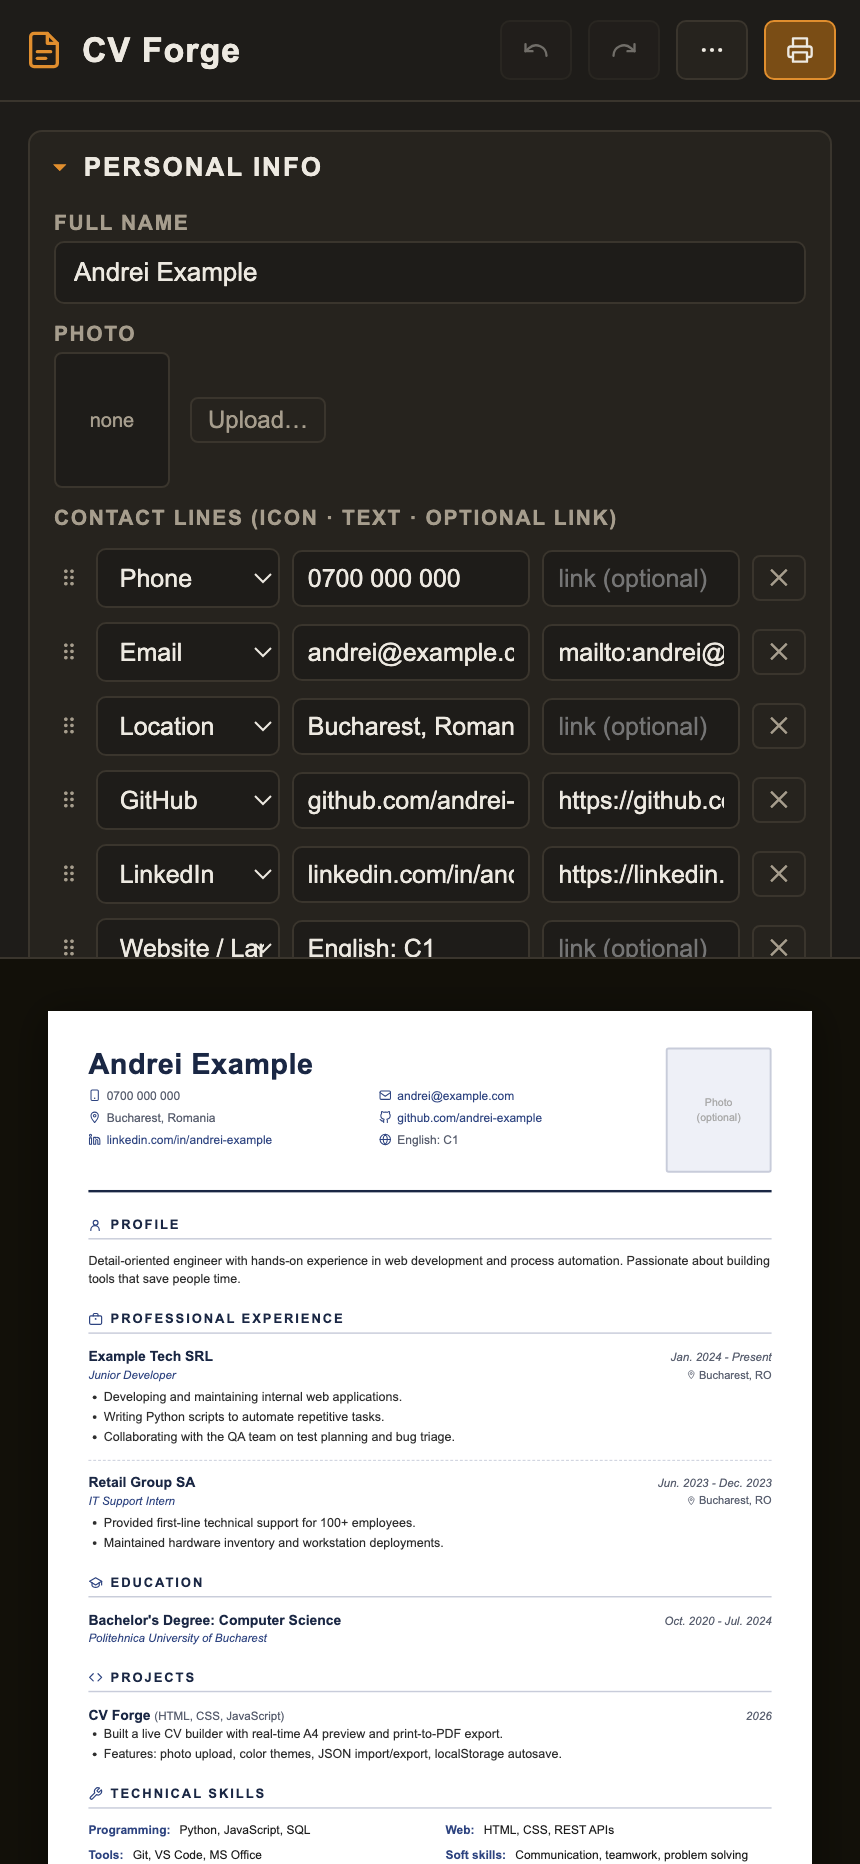
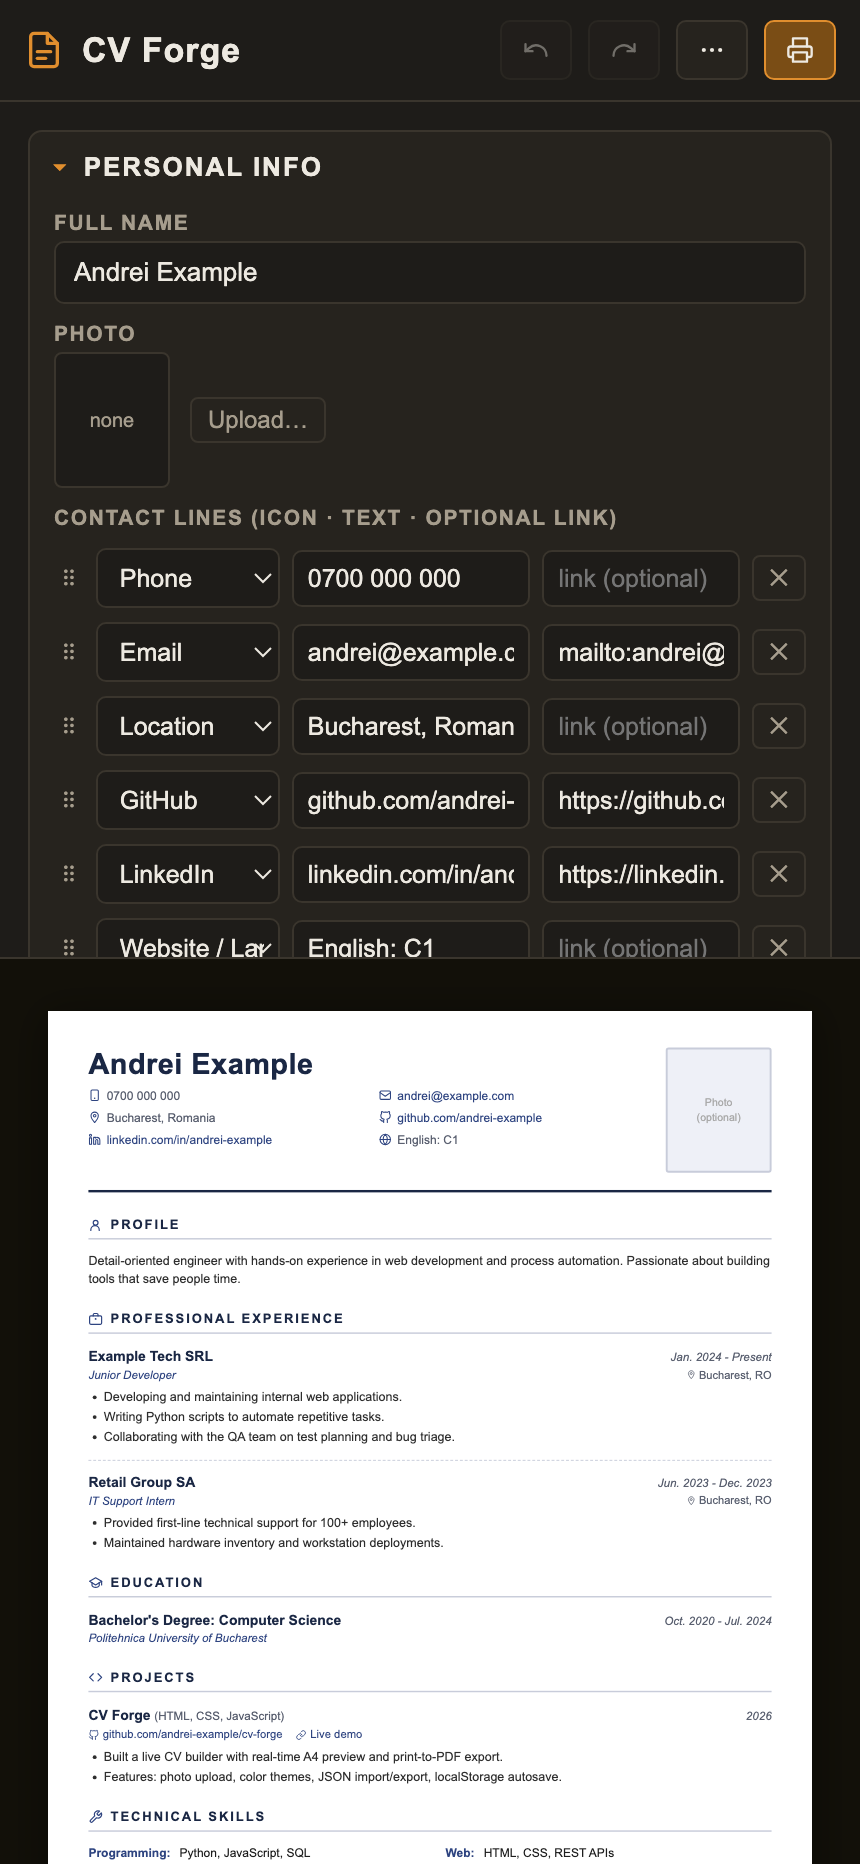
Add repository and demo links to project entries
Projects can now carry links, shown as a small row under the project
title and above its bullets. One link per line, written either as a bare
address or as "Label | link", so a link can read as the address itself
on paper or as a short label when there are several.

GitHub addresses get the GitHub icon and everything else a generic link
icon, both following the existing icon toggle. Links are sanitized like
the rest: bare domains gain https:// and non-web schemes are dropped.
Older JSON exports without the field load unchanged.

Changed region(s): [[0.0907, 0.9024, 0.8767, 1.0]]

diff --git a/app.js b/app.js
@@ -147,6 +147,7 @@ function defaultState() {
         projects: [
             {
                 name: 'CV Forge', tech: 'HTML, CSS, JavaScript', date: '2026',
+                links: 'github.com/andrei-example/cv-forge\nLive demo | cvforge.example.com',
                 bullets: 'Built a live CV builder with real-time A4 preview and print-to-PDF export.\nFeatures: photo upload, color themes, JSON import/export, localStorage autosave.'
             }
         ],
@@ -270,6 +271,26 @@ function setPath(obj, path, value) {
 const bulletList = text =>
     String(text || '').split('\n').map(s => s.trim()).filter(Boolean);
 
+/* one link per line, either "https://..." or "Label | https://..." */
+function linkRow(text) {
+    const links = bulletList(text).map(line => {
+        const bar = line.indexOf('|');
+        const label = bar === -1 ? '' : line.slice(0, bar).trim();
+        const raw = bar === -1 ? line : line.slice(bar + 1).trim();
+        const url = safeLink(raw);
+        if (!url) return null;
+        // without a label, show the bare address: readable on paper too
+        const shown = label || raw.replace(/^https?:\/\//i, '').replace(/\/+$/, '');
+        const icon = /\bgithub\.com/i.test(url) ? ICONS.github : ICONS.link;
+        return { url, shown, icon };
+    }).filter(Boolean);
+
+    return links.length
+        ? `<div class="item-links">${links.map(l =>
+            `<a href="${esc(l.url)}">${state.showIcons ? l.icon : ''}${esc(l.shown)}</a>`).join('')}</div>`
+        : '';
+}
+
 /* ═══════════════════════════════════════════════════════
    PREVIEW RENDERING
    ═══════════════════════════════════════════════════════ */
@@ -379,6 +400,7 @@ function sectionPreview(key) {
                 <span>${esc(x.name)} ${x.tech ? `<span class="tech">(${esc(x.tech)})</span>` : ''}</span>
                 <span class="date">${esc(x.date)}</span>
             </div>
+            ${linkRow(x.links)}
             ${ulOf(x.bullets)}
         </div>`).join(''));
     }
@@ -664,6 +686,8 @@ function editorSection(key, s) {
                     ${field('Year', `projects.${i}.date`, x.date)}
                 </div>
                 ${field('Tech stack', `projects.${i}.tech`, x.tech, 'PHP, SQLite, Stripe API')}
+                ${area('Links - one per line, or "Label | link"', `projects.${i}.links`, x.links,
+                       'github.com/you/project\nLive demo | myproject.com')}
                 ${area('Description - one bullet per line', `projects.${i}.bullets`, x.bullets)}
             </div>`).join('')}
             <button class="add-btn" data-action="add" data-list="projects">+ Add project</button>
@@ -717,7 +741,7 @@ const NEW_ITEM = {
     contacts:   () => ({ icon: 'link', text: '', link: '' }),
     experience: () => ({ company: '', role: '', location: '', date: '', bullets: '' }),
     education:  () => ({ degree: '', institution: '', date: '' }),
-    projects:   () => ({ name: '', tech: '', date: '', bullets: '' }),
+    projects:   () => ({ name: '', tech: '', date: '', links: '', bullets: '' }),
     skills:     () => ({ category: '', items: '' })
 };
 

diff --git a/style.css b/style.css
@@ -607,6 +607,27 @@ body { display: flex; flex-direction: column; }
     gap: 3px;
 }
 
+/* links under a project title */
+.cv-page .item-links {
+    display: flex;
+    flex-wrap: wrap;
+    gap: 3px 14px;
+    margin: 2px 0 5px;
+    font-size: 0.9em;
+}
+
+.cv-page .item-links a {
+    display: inline-flex;
+    align-items: center;
+    gap: 4px;
+    color: var(--navy-mid);
+    text-decoration: none;
+}
+
+.cv-page .item-links a:hover { text-decoration: underline; }
+
+.cv-page .item-links .contact-icon { width: 11px; height: 11px; }
+
 .cv-page ul { margin: 0 0 0 16px; padding: 0; }
 
 .cv-page li { margin-bottom: 2px; font-size: 1em; color: #2e2e2e; }

diff --git a/README.md b/README.md
@@ -26,6 +26,7 @@ Most online CV builders want an account, an email, a subscription - and your per
 - **Drag & drop** - reorder whole sections and contact lines with the drag handles
 - **Undo / Redo** - toolbar buttons plus `Ctrl+Z` / `Ctrl+Y` for every change: edits, deletes, reorders, imports, even resets
 - **Custom sections** - Certifications, Volunteering, Languages... each with titled, dated, bulleted entries
+- **Project links** - put a repository or live demo link under any project, one per line as `link` or `Label | link`; clickable in the exported PDF, readable on paper
 - **Renameable titles** - write your CV in any language
 
 ### Appearance
